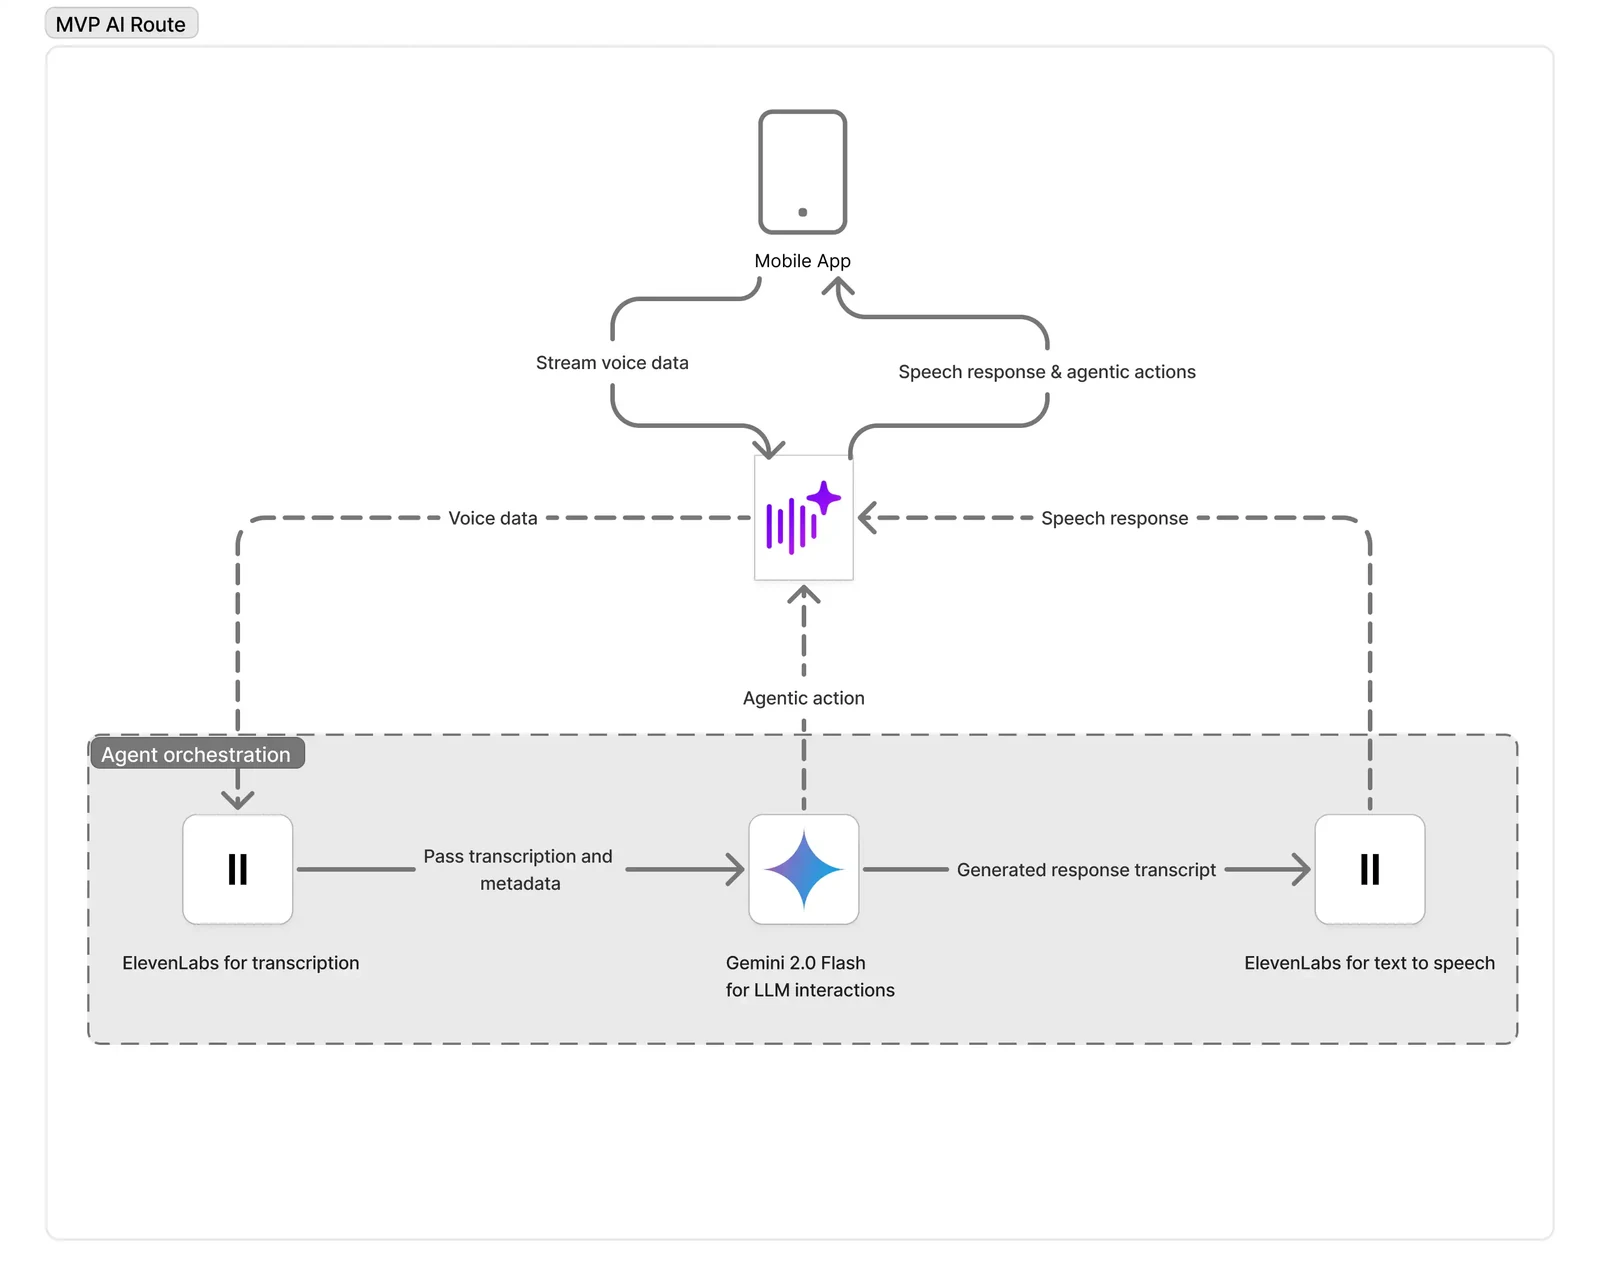
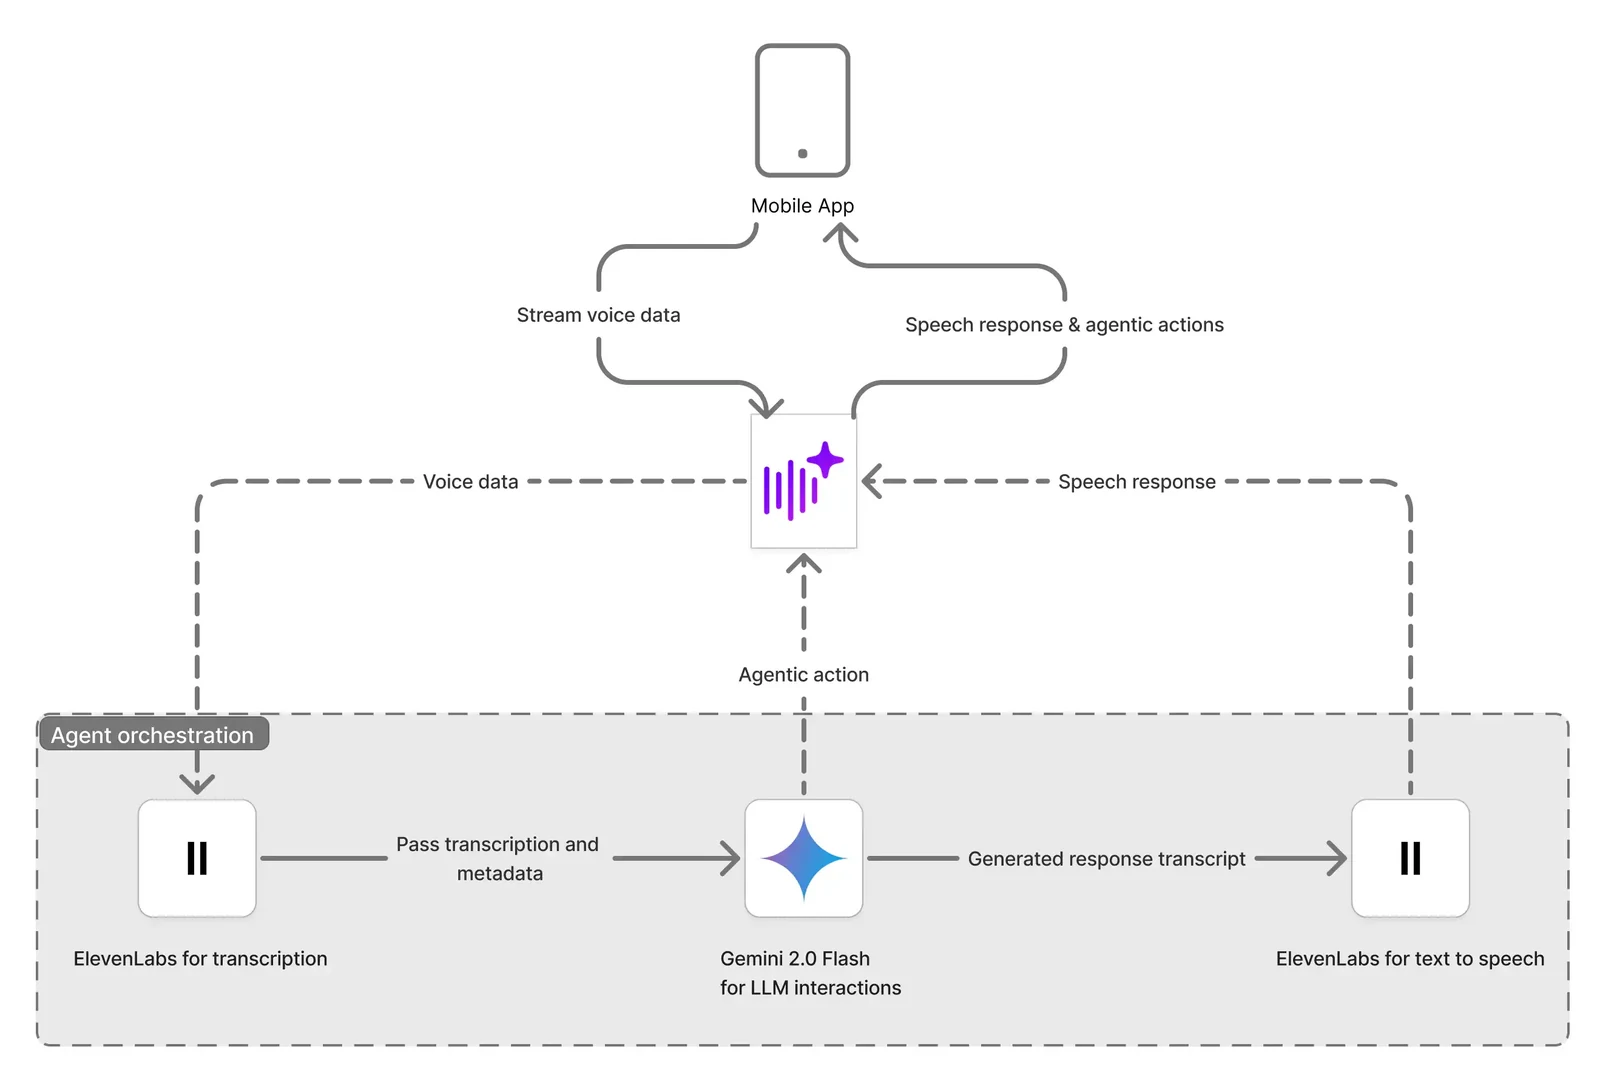
Tidy Worlds of Hello images and end-of-section spacing
Avatar selection moves below the Tools pills, the Overview photo gets a
3px border, and the agent flow diagram is cropped to its content. A
section that ends on an image no longer adds the image's bottom margin
to the section padding (72px gap down to 48px, on every case study).
?v is 2026-10-08e.

diff --git a/case-studies/worlds-of-hello/index.html b/case-studies/worlds-of-hello/index.html
@@ -26,9 +26,9 @@
   <link rel="preconnect" href="https://fonts.gstatic.com" crossorigin>
   <link href="https://fonts.googleapis.com/css2?family=Playfair+Display:ital,wght@0,700;0,900;1,900&family=Lora:ital,wght@0,400;0,700;1,400&family=Inter:wght@400;500;600&family=Manufacturing+Consent&display=swap" rel="stylesheet">
   <!-- Same ?v= as index.html; bump all three together -->
-  <link rel="stylesheet" href="../../assets/css/style.css?v=2026-10-08d">
-  <link rel="stylesheet" href="../../assets/css/case-study.css?v=2026-10-08d">
-  <script src="../../assets/js/main.js?v=2026-10-08d" defer></script>
+  <link rel="stylesheet" href="../../assets/css/style.css?v=2026-10-08e">
+  <link rel="stylesheet" href="../../assets/css/case-study.css?v=2026-10-08e">
+  <script src="../../assets/js/main.js?v=2026-10-08e" defer></script>
 </head>
 <body>
 
@@ -177,11 +177,11 @@
         <p>The codebase used a DTO, DAO, repository, and BLoC architecture, so even early screen work required me to understand more than the widget layer. I had to trace how data, application state, and navigation moved through each feature before I could implement it correctly. I used AI development tools to inspect patterns in the existing code and understand how features had been structured before making changes. In one of my first major code reviews, my manager specifically praised how quickly I had adapted to the architecture he had established. We worked in sprints, with features assigned through tickets and reviewed via pull requests.</p>
         <p>My scope expanded as I became more familiar with the product. I started receiving features that required design work in Figma before I implemented them in Flutter. By later sprints, I was moving between Figma, Flutter development, Supabase voice metadata, and Python scripts supporting the ElevenLabs workflow depending on what the product needed.</p>
         <p>Across the internship, I worked on authentication and onboarding, avatar and photo capture, parent video recording, the home experience, settings, SLP connection flows, community voices, and voice asset preparation. I also worked on therapist-side features near the end of the internship, including caseload search and session-note actions, although that work had not been merged before the project period ended.</p>
+        <div class="cs-tools-row"><span class="kicker">Tools</span><div class="cs-tools"><span class="stag">Flutter</span><span class="stag">Supabase</span><span class="stag">ElevenLabs</span><span class="stag">Python</span><span class="stag">Figma</span></div></div>
         <figure class="cs-media cs-media--bare cs-media--device" style="--ratio:1302/942">
           <img src="assets/images/avatar-ipad.webp" width="1302" height="942" alt="Onboarding screen, Select your child’s avatar: a grid of emoji faces across skin tones and animals, with a Take a photo instead button and a Next button" loading="lazy">
           <figcaption class="cs-caption">Avatar selection</figcaption>
         </figure>
-        <div class="cs-tools-row"><span class="kicker">Tools</span><div class="cs-tools"><span class="stag">Flutter</span><span class="stag">Supabase</span><span class="stag">ElevenLabs</span><span class="stag">Python</span><span class="stag">Figma</span></div></div>
       </div>
     </section>
 
@@ -258,8 +258,8 @@
       <div class="cs-prose">
         <p>One of the most important constraints behind the child experience was how much freedom the cloned voice was allowed to have during a lesson.</p>
         <!-- Donell Mtabvuri's diagram of the first version (donell.dev), credited at the end -->
-        <figure class="cs-media" style="--ratio:1600/1286">
-          <img src="assets/images/agent-flow.webp" width="1600" height="1286" alt="Diagram of the initial agentic voice flow: the mobile app streams the child’s voice to an agent, ElevenLabs transcribes it, Gemini 2.0 Flash generates a response transcript, and ElevenLabs turns it into speech sent back to the app with agentic actions" loading="lazy">
+        <figure class="cs-media" style="--ratio:1600/1089">
+          <img src="assets/images/agent-flow.webp" width="1600" height="1089" alt="Diagram of the initial agentic voice flow: the mobile app streams the child’s voice to an agent, ElevenLabs transcribes it, Gemini 2.0 Flash generates a response transcript, and ElevenLabs turns it into speech sent back to the app with agentic actions" loading="lazy">
           <figcaption class="cs-caption">Initial agentic voice flow, before the switch to pre-generated audio</figcaption>
         </figure>
         <p>The platform did not generate lesson dialogue live. Each voice was used to produce approved lines ahead of time, then rule-based logic determined which recording played during each part of an activity. Audio was prefetched where possible, with an on-demand fallback when a clip was unavailable. ElevenLabs audio tags helped control the emotion and intonation of those recordings.</p>

diff --git a/assets/css/case-study.css b/assets/css/case-study.css
@@ -132,6 +132,7 @@
 .cs-media--screen{--ratio:9/19.5;max-width:220px;margin-inline:auto;width:100%;}
 /* Small portrait photos (under ~700px wide) stay near their own size, centred, so they don't blur */
 .cs-media--narrow{max-width:360px;margin-inline:auto;}
+.cs-media--narrow > img{border:3px solid var(--v35);}
 /* A single framed device screen at full column width filled the whole viewport, so it is capped and centred */
 .cs-media--device{max-width:640px;margin-inline:auto;}
 .cs-caption{
@@ -217,6 +218,8 @@
 .cs-source > p{margin-top:0.75em;}
 .cs-prose > .cs-source > .cs-media,.cs-prose > .cs-source > .cs-gallery{margin-block:var(--sp-sm) var(--sp-md);}
 .cs-decision > .cs-media:last-child{margin-bottom:0;}
+/* A section ending on an image: the section's own padding is the gap, so the image adds none */
+.cs-prose > .cs-media:last-child,.cs-prose > .cs-gallery:last-child{margin-bottom:0;}
 
 /* Image galleries: stacked on phones, side by side from 640px */
 .cs-gallery{display:grid;gap:var(--sp-lg);}

diff --git a/case-studies/insightcuts/index.html b/case-studies/insightcuts/index.html
@@ -26,9 +26,9 @@
   <link rel="preconnect" href="https://fonts.gstatic.com" crossorigin>
   <link href="https://fonts.googleapis.com/css2?family=Playfair+Display:ital,wght@0,700;0,900;1,900&family=Lora:ital,wght@0,400;0,700;1,400&family=Inter:wght@400;500;600&family=Manufacturing+Consent&display=swap" rel="stylesheet">
   <!-- Same ?v= as index.html; bump all three together -->
-  <link rel="stylesheet" href="../../assets/css/style.css?v=2026-10-08d">
-  <link rel="stylesheet" href="../../assets/css/case-study.css?v=2026-10-08d">
-  <script src="../../assets/js/main.js?v=2026-10-08d" defer></script>
+  <link rel="stylesheet" href="../../assets/css/style.css?v=2026-10-08e">
+  <link rel="stylesheet" href="../../assets/css/case-study.css?v=2026-10-08e">
+  <script src="../../assets/js/main.js?v=2026-10-08e" defer></script>
 </head>
 <body>
 

diff --git a/case-studies/tiffany-wishlist/index.html b/case-studies/tiffany-wishlist/index.html
@@ -26,9 +26,9 @@
   <link rel="preconnect" href="https://fonts.gstatic.com" crossorigin>
   <link href="https://fonts.googleapis.com/css2?family=Playfair+Display:ital,wght@0,700;0,900;1,900&family=Lora:ital,wght@0,400;0,700;1,400&family=Inter:wght@400;500;600&family=Manufacturing+Consent&display=swap" rel="stylesheet">
   <!-- Same ?v= as index.html; bump all three together -->
-  <link rel="stylesheet" href="../../assets/css/style.css?v=2026-10-08d">
-  <link rel="stylesheet" href="../../assets/css/case-study.css?v=2026-10-08d">
-  <script src="../../assets/js/main.js?v=2026-10-08d" defer></script>
+  <link rel="stylesheet" href="../../assets/css/style.css?v=2026-10-08e">
+  <link rel="stylesheet" href="../../assets/css/case-study.css?v=2026-10-08e">
+  <script src="../../assets/js/main.js?v=2026-10-08e" defer></script>
 </head>
 <body>
 

diff --git a/index.html b/index.html
@@ -31,8 +31,8 @@
   <link rel="preconnect" href="https://fonts.gstatic.com" crossorigin>
   <link href="https://fonts.googleapis.com/css2?family=Playfair+Display:ital,wght@0,700;0,900;1,900&family=Lora:ital,wght@0,400;0,700;1,400&family=Inter:wght@400;500;600&family=Manufacturing+Consent&display=swap" rel="stylesheet">
   <!-- When style.css or main.js changes, set ?v= on both lines, and on every case-studies/*/index.html, to the deploy date (YYYY-MM-DD, plus b, c… for a second deploy that day) so returning visitors get the new files -->
-  <link rel="stylesheet" href="./assets/css/style.css?v=2026-10-08d">
-  <script src="./assets/js/main.js?v=2026-10-08d" defer></script>
+  <link rel="stylesheet" href="./assets/css/style.css?v=2026-10-08e">
+  <script src="./assets/js/main.js?v=2026-10-08e" defer></script>
 </head>
 <body>
 
